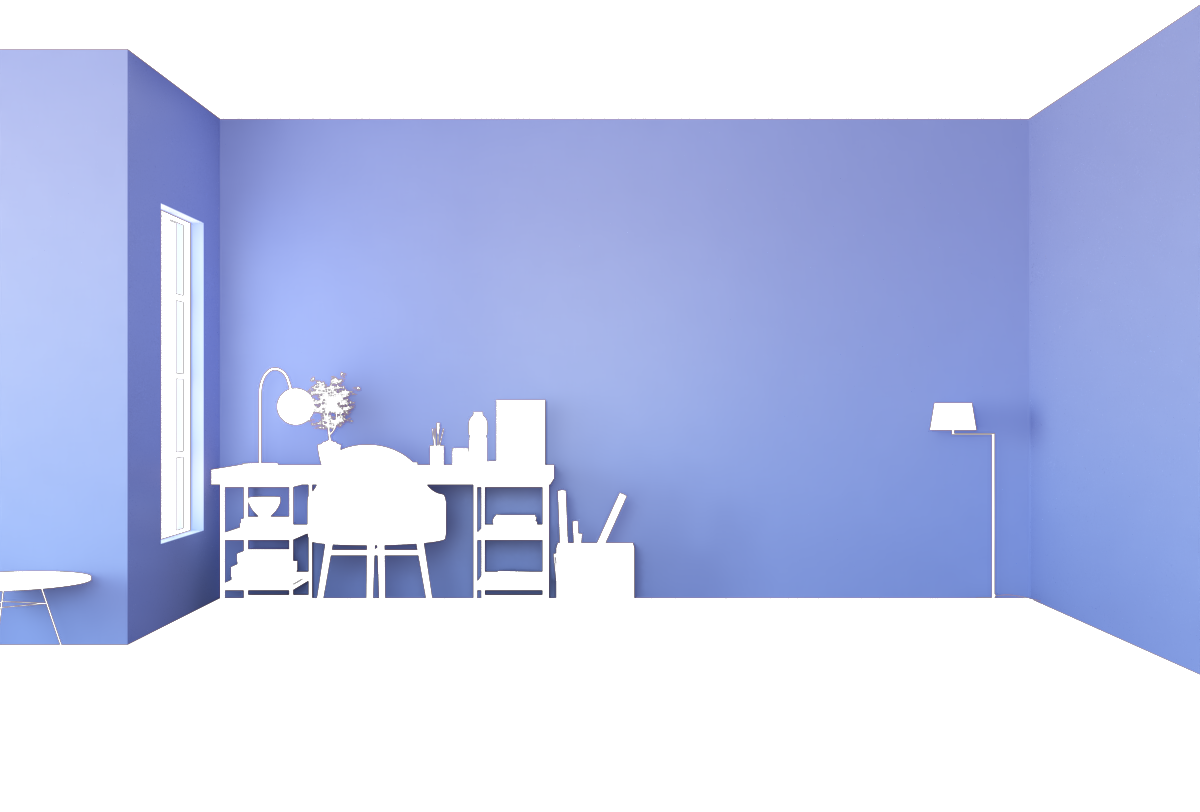
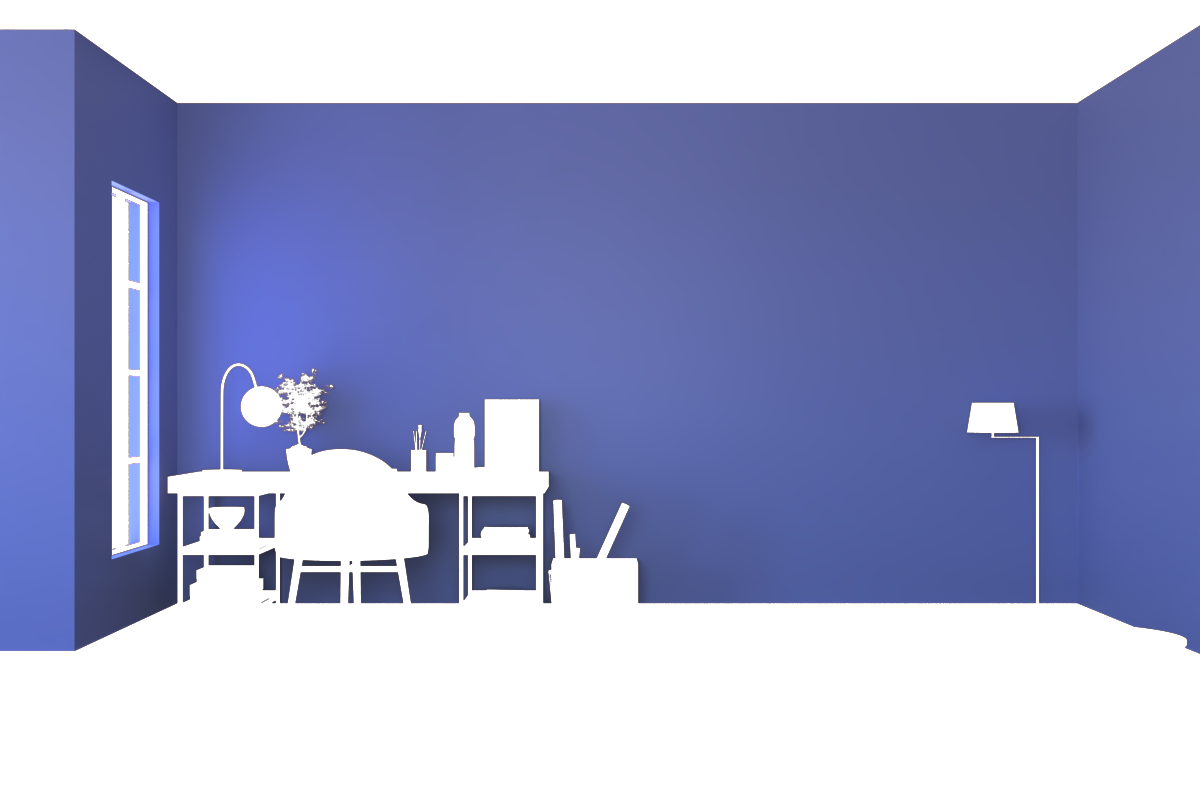
new colors added

diff --git a/PaintVisualization.html b/PaintVisualization.html
@@ -18,6 +18,15 @@
         />
 
         <!-- Color Overlays -->
+        <!-- Base Image -->
+        <img
+          src="./images/base.png"
+          alt="Kitchen Base"
+          class="base-image"
+          id="baseImage"
+        />
+
+        <!-- Color Overlays -->
         <img
           src="./images/color-1.png"
           alt="Color 1 Overlay"
@@ -29,12 +38,6 @@
           alt="Color 2 Overlay"
           class="color-overlay"
           id="color-2-overlay"
-        />
-        <img
-          src="./images/color-3.png"
-          alt="Color 3 Overlay"
-          class="color-overlay"
-          id="color-3-overlay"
         />
         <img
           src="./images/color-3.png"
@@ -84,11 +87,65 @@
           class="color-overlay"
           id="color-10-overlay"
         />
+        <img
+          src="./images/color-12.png"
+          alt="Color 12 Overlay"
+          class="color-overlay"
+          id="color-12-overlay"
+        />
+        <img
+          src="./images/color-13.png"
+          alt="Color 13 Overlay"
+          class="color-overlay"
+          id="color-13-overlay"
+        />
+        <img
+          src="./images/color-14.png"
+          alt="Color 14 Overlay"
+          class="color-overlay"
+          id="color-14-overlay"
+        />
+        <img
+          src="./images/color-15.png"
+          alt="Color 15 Overlay"
+          class="color-overlay"
+          id="color-15-overlay"
+        />
+        <img
+          src="./images/color-16.png"
+          alt="Color 16 Overlay"
+          class="color-overlay"
+          id="color-16-overlay"
+        />
+        <img
+          src="./images/color-17.png"
+          alt="Color 17 Overlay"
+          class="color-overlay"
+          id="color-17-overlay"
+        />
+        <img
+          src="./images/color-18.png"
+          alt="Color 18 Overlay"
+          class="color-overlay"
+          id="color-18-overlay"
+        />
+        <img
+          src="./images/color-19.png"
+          alt="Color 19 Overlay"
+          class="color-overlay"
+          id="color-19-overlay"
+        />
+        <img
+          src="./images/color-20.png"
+          alt="Color 20 Overlay"
+          class="color-overlay"
+          id="color-20-overlay"
+        />
       </div>
 
       <!-- Color Selection Area -->
       <div class="color-selection">
-        <h4>Choose Your Paint Color</h4>
+        <h4>Paint Color</h4>
 
         <div class="color-options">
           <div class="color-item">
@@ -172,6 +229,7 @@
             ></button>
             <span class="color-id">#88a765</span>
           </div>
+
           <div class="color-item">
             <button
               class="color-button"
@@ -181,10 +239,119 @@
             ></button>
             <span class="color-id">#709abf</span>
           </div>
+          <!-- 11 -->
+          <div class="color-item">
+            <button
+              class="color-button"
+              data-color="color-11"
+              style="background-color: #ff9933"
+              aria-label="Marigold Glory"
+            ></button>
+            <span class="color-id">#FF9933</span>
+          </div>
+          <!-- 11 -->
+          <!-- 12 -->
+          <div class="color-item">
+            <button
+              class="color-button"
+              data-color="color-12"
+              style="background-color: #9b4b4b"
+              aria-label="Terracotta Touch"
+            ></button>
+            <span class="color-id">#9B4B4B</span>
+          </div>
+          <!-- 12 -->
+          <!-- 13 -->
+          <div class="color-item">
+            <button
+              class="color-button"
+              data-color="color-13"
+              style="background-color: #006b3c"
+              aria-label="Emerald Vista"
+            ></button>
+            <span class="color-id">#006B3C</span>
+          </div>
+          <!-- 13 -->
+          <!-- 14 -->
+          <div class="color-item">
+            <button
+              class="color-button"
+              data-color="color-14"
+              style="background-color: #d4af37"
+              aria-label="Royal Gold"
+            ></button>
+            <span class="color-id">#D4AF37</span>
+          </div>
+          <!-- 14 -->
+          <!-- 15 -->
+          <div class="color-item">
+            <button
+              class="color-button"
+              data-color="color-15"
+              style="background-color: #800080"
+              aria-label="Mystic Purple"
+            ></button>
+            <span class="color-id">#800080</span>
+          </div>
+          <!-- 15 -->
+          <!-- 16 -->
+          <div class="color-item">
+            <button
+              class="color-button"
+              data-color="color-16"
+              style="background-color: #c5b358"
+              aria-label="Desert Sand"
+            ></button>
+            <span class="color-id">#C5B358</span>
+          </div>
+          <!-- 16 -->
+          <!-- 17 -->
+          <div class="color-item">
+            <button
+              class="color-button"
+              data-color="color-17"
+              style="background-color: #2e8b57"
+              aria-label="Monsoon Green"
+            ></button>
+            <span class="color-id">#2E8B57</span>
+          </div>
+          <!-- 17 -->
+          <!-- 18 -->
+          <div class="color-item">
+            <button
+              class="color-button"
+              data-color="color-18"
+              style="background-color: #cd5c5c"
+              aria-label="Brick Red"
+            ></button>
+            <span class="color-id">#CD5C5C</span>
+          </div>
+          <!-- 18 -->
+          <!-- 19 -->
+          <div class="color-item">
+            <button
+              class="color-button"
+              data-color="color-19"
+              style="background-color: #4b0082"
+              aria-label="Royal Indigo"
+            ></button>
+            <span class="color-id">#4B0082</span>
+          </div>
+          <!-- 19 -->
+          <!-- 20 -->
+          <div class="color-item">
+            <button
+              class="color-button"
+              data-color="color-20"
+              style="background-color: #8b4513"
+              aria-label="Spice Brown"
+            ></button>
+            <span class="color-id">#8B4513</span>
+          </div>
+          <!-- 20 -->
         </div>
 
         <button class="reset-button" id="resetButton">Reset to Default</button>
-
         <div class="selected-color" id="selectedColorText"></div>
       </div>
     </div>

diff --git a/PaintVis.js b/PaintVis.js
@@ -1,5 +1,6 @@
 // Color configuration
 const colors = {
+  // Existing colors
   "color-1": "#d5d265",
   "color-2": "#b73352",
   "color-3": "#4a59a6",
@@ -8,8 +9,20 @@ const colors = {
   "color-6": "#6bbec1",
   "color-7": "#c66363",
   "color-8": "#b073df",
-  "color-9": "88a765",
+  "color-9": "#88a765",
   "color-10": "#709abf",
+
+  // New colors
+  "color-11": "#FF9933", // Marigold Glory
+  "color-12": "#9B4B4B", // Terracotta Touch
+  "color-13": "#006B3C", // Emerald Vista
+  "color-14": "#D4AF37", // Royal Gold
+  "color-15": "#800080", // Mystic Purple
+  "color-16": "#C5B358", // Desert Sand
+  "color-17": "#2E8B57", // Monsoon Green
+  "color-18": "#CD5C5C", // Brick Red
+  "color-19": "#4B0082", // Royal Indigo
+  "color-20": "#8B4513", // Spice Brown
 };
 
 let currentColor = null;

diff --git a/PaintVisualization.css b/PaintVisualization.css
@@ -73,10 +73,10 @@ h4 {
 }
 
 .color-button {
-  width: 40px;
-  height: 40px;
+  width: 50px;
+  height: 50px;
   border: none;
-  border-radius: 5px;
+  border-radius: 30px;
   cursor: pointer;
   transition: transform 0.2s;
   box-shadow: 0 2px 4px rgba(0, 0, 0, 0.1);
